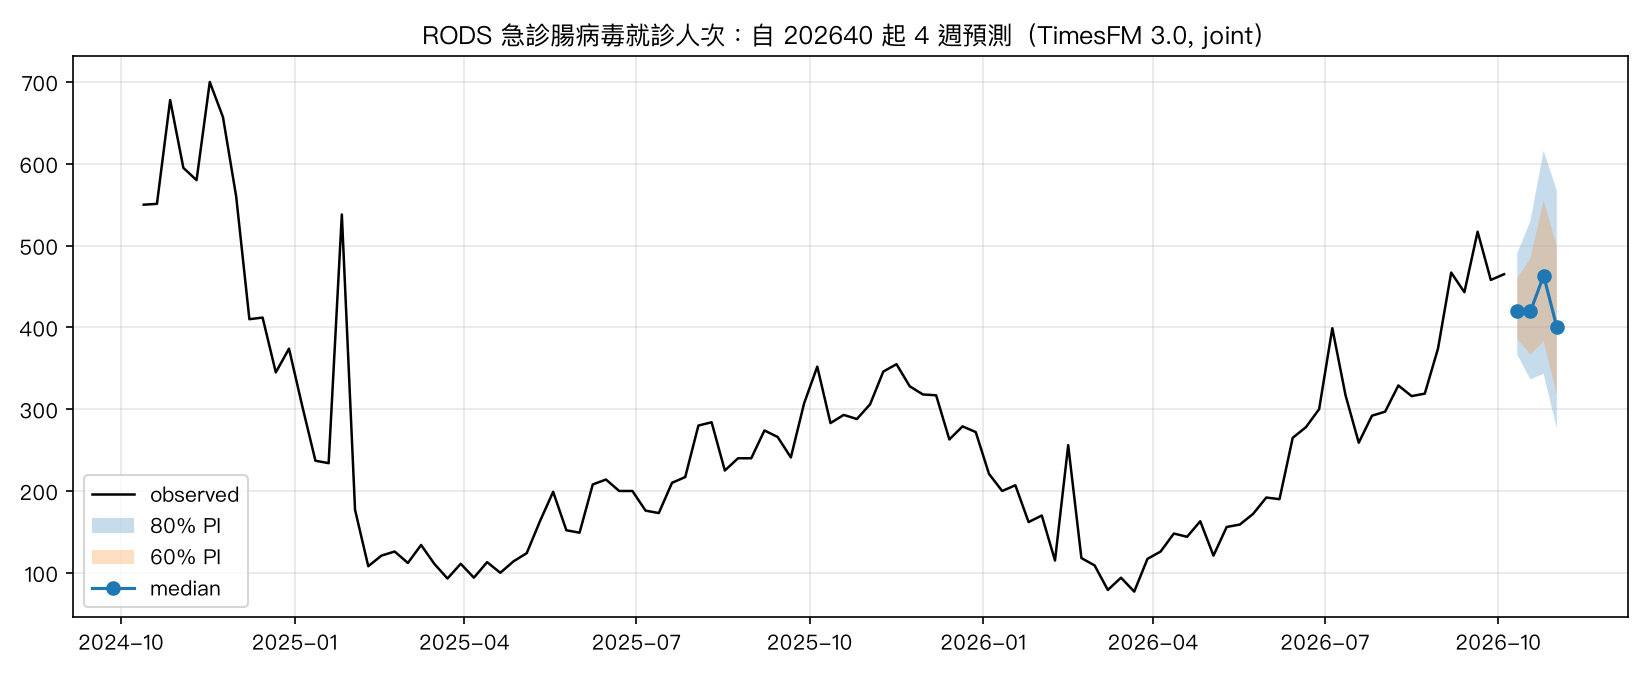
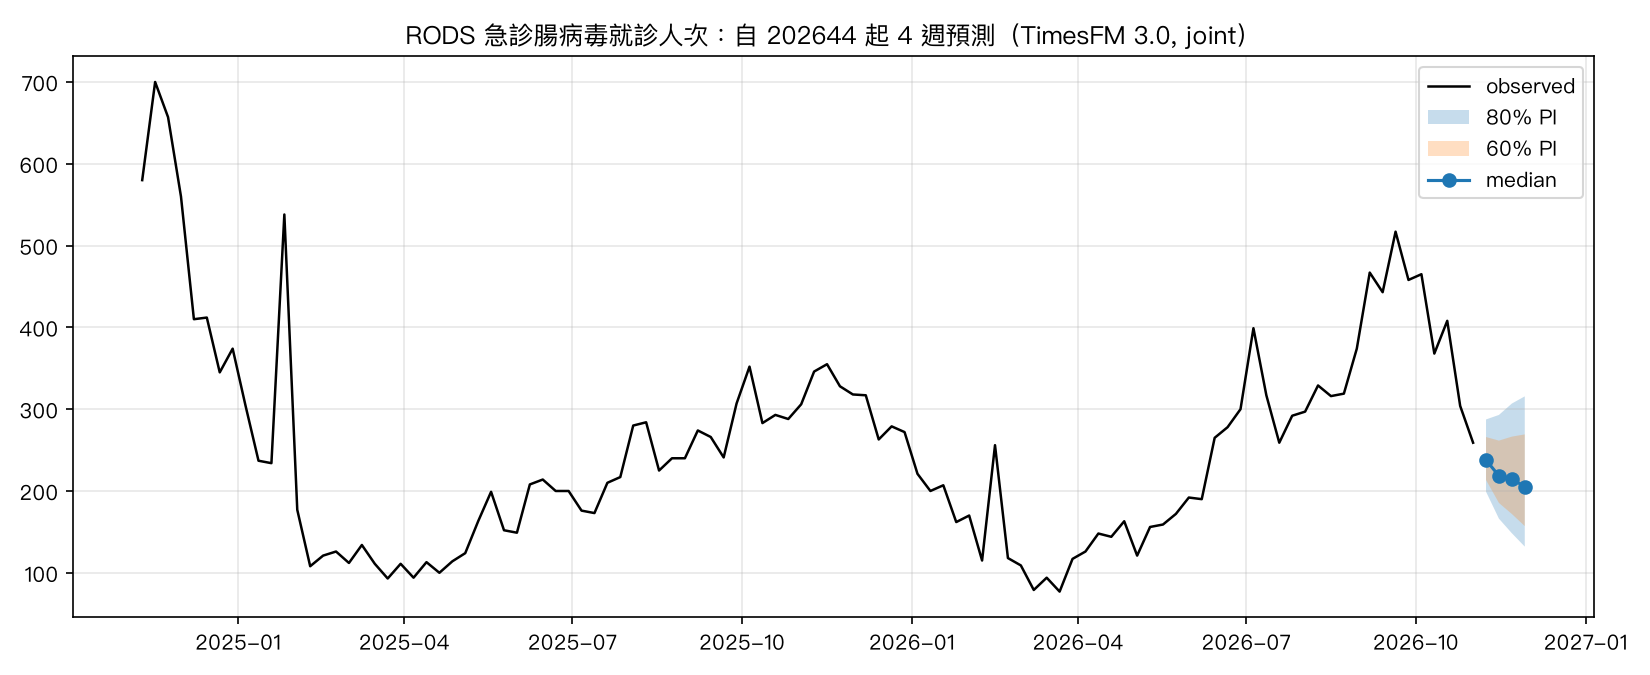
腸病毒每週更新 2026-11-09：資料至 202644、預測起點 202644；門急診合計 6,172 人次（-13%），未達流行閾值

diff --git a/docs/ev/report.html b/docs/ev/report.html
@@ -9,7 +9,7 @@
 <header class="masthead" data-disease="ev" data-page="report"></header>
 <script src="../assets/nav.js?v=nav2"></script>
 <main class="report">
-<div class="hero-kicker">EVALUATION REPORT · 2026-10-19</div>
+<div class="hero-kicker">EVALUATION REPORT · 2026-11-09</div>
 <h1 class="report-title">以 TimesFM 3.0 零樣本預測台灣腸病毒門急診就診：<em>回測解讀與評估</em></h1>
 <p class="lead">資料窗 2016w01–2025w53（522 週），以 2016–2017 為暖機 context，2018w01 起每週一個起點共 415 個，預測未來 1–4 週；主要決策依據為 COVID 後（2023–2025）的加權區間分數（WIS）。目標序列為全國腸病毒門急診就診人次，其中急診部分暫以 RODS 急診腸病毒人次代替。</p>
 
@@ -26,9 +26,9 @@
 
 <section><h2>2. 使用的資料與流行閾值</h2>
 <table class="tbl compact"><thead><tr><th>來源</th><th>內容</th><th>粒度</th><th>完整週範圍</th></tr></thead><tbody>
-<tr><td>健保門診及住院就診人次統計－腸病毒（開放資料）</td><td>腸病毒健保就診人次、健保就診總人次；門診與住院</td><td>週 × 9 年齡層 × 22 縣市</td><td class="num">201601–202640</td></tr>
-<tr><td>急診傳染病監測統計－腸病毒（開放資料，RODS）</td><td>急診腸病毒就診人次（無分母）</td><td>週 × 5 年齡層 × 22 縣市</td><td class="num">200701–202640</td></tr>
-<tr><td>RODS 急診總人次（流感面板 RODS_RS.csv）</td><td>急診就診總人次，用來算腸病毒急診就診百分比</td><td>週 × 醫院</td><td class="num">200901–202640</td></tr>
+<tr><td>健保門診及住院就診人次統計－腸病毒（開放資料）</td><td>腸病毒健保就診人次、健保就診總人次；門診與住院</td><td>週 × 9 年齡層 × 22 縣市</td><td class="num">201601–202644</td></tr>
+<tr><td>急診傳染病監測統計－腸病毒（開放資料，RODS）</td><td>急診腸病毒就診人次（無分母）</td><td>週 × 5 年齡層 × 22 縣市</td><td class="num">200701–202644</td></tr>
+<tr><td>RODS 急診總人次（流感面板 RODS_RS.csv）</td><td>急診就診總人次，用來算腸病毒急診就診百分比</td><td>週 × 醫院</td><td class="num">200901–202643</td></tr>
 <tr><td>行事曆</td><td>學校暑假／寒假／開學週（近似規則）、平日假日天數、春節（tw_holiday.csv）</td><td>週</td><td class="num">2016–2027</td></tr>
 </tbody></table>
 <div class="two-col">
@@ -36,8 +36,8 @@
 <table class="tbl compact"><thead><tr><th>年</th><th class="num">門急診就診人次</th></tr></thead><tbody><tr><td>2016</td><td class='num'>11,000</td></tr><tr><td>2017</td><td class='num'>11,000</td></tr><tr><td>2018</td><td class='num'>11,000</td></tr><tr><td>2019</td><td class='num'>11,000</td></tr><tr><td>2020</td><td class='num'>11,000</td></tr><tr><td>2021</td><td class='num'>11,000</td></tr><tr><td>2022</td><td class='num'>11,000</td></tr><tr><td>2023</td><td class='num'>11,000</td></tr><tr><td>2024</td><td class='num'>11,000</td></tr><tr><td>2025</td><td class='num'>11,000</td></tr><tr><td>2026</td><td class='num'>12,000</td></tr></tbody></table>
 <p class="source">2016、2023、2024、2025、2026 年有新聞稿佐證；其餘年份推定沿用 11,000。流行期規則（暫定）：單週門急診就診人次達流行閾值即進入流行期；連續 2 週低於閾值即脫離（第 2 週起視為非流行期）。閾值由疾管署每年設定，本專案依各年新聞稿記錄於 data/thresholds.csv。</p></div>
 <div class="card"><h3>合成指標（門診 + RODS）與疾管署公布值的比較</h3>
-<table class="tbl compact"><thead><tr><th>週</th><th class="num">公布門急診</th><th class="num">開放資料門診</th><th class="num">RODS</th><th class="num">合成</th><th class="num">差</th></tr></thead><tbody><tr><td>201617</td><td class='num'>11,174</td><td class='num'>10,340</td><td class='num'>603</td><td class='num'>10,943</td><td class='num'>-2.1%</td></tr><tr><td>202317</td><td class='num'>10,230</td><td class='num'>8,936</td><td class='num'>454</td><td class='num'>9,390</td><td class='num'>-8.2%</td></tr><tr><td>202318</td><td class='num'>11,252</td><td class='num'>10,040</td><td class='num'>439</td><td class='num'>10,479</td><td class='num'>-6.9%</td></tr><tr><td>202335</td><td class='num'>12,366</td><td class='num'>10,809</td><td class='num'>504</td><td class='num'>11,313</td><td class='num'>-8.5%</td></tr><tr><td>202336</td><td class='num'>12,163</td><td class='num'>10,986</td><td class='num'>531</td><td class='num'>11,517</td><td class='num'>-5.3%</td></tr><tr><td>202339</td><td class='num'>12,463</td><td class='num'>11,139</td><td class='num'>545</td><td class='num'>11,684</td><td class='num'>-6.3%</td></tr><tr><td>202340</td><td class='num'>12,643</td><td class='num'>11,306</td><td class='num'>580</td><td class='num'>11,886</td><td class='num'>-6.0%</td></tr><tr><td>202418</td><td class='num'>16,564</td><td class='num'>15,788</td><td class='num'>449</td><td class='num'>16,237</td><td class='num'>-2.0%</td></tr><tr><td>202419</td><td class='num'>17,895</td><td class='num'>17,480</td><td class='num'>519</td><td class='num'>17,999</td><td class='num'>+0.6%</td></tr><tr><td>202449</td><td class='num'>22,279</td><td class='num'>22,263</td><td class='num'>560</td><td class='num'>22,823</td><td class='num'>+2.4%</td></tr><tr><td>202450</td><td class='num'>17,508</td><td class='num'>17,808</td><td class='num'>410</td><td class='num'>18,218</td><td class='num'>+4.1%</td></tr><tr><td>202546</td><td class='num'>11,223</td><td class='num'>11,510</td><td class='num'>346</td><td class='num'>11,856</td><td class='num'>+5.6%</td></tr><tr><td>202620</td><td class='num'>5,153</td><td class='num'>5,144</td><td class='num'>159</td><td class='num'>5,303</td><td class='num'>+2.9%</td></tr><tr><td>202621</td><td class='num'>5,573</td><td class='num'>5,660</td><td class='num'>172</td><td class='num'>5,832</td><td class='num'>+4.6%</td></tr><tr><td>202635</td><td class='num'>8,641</td><td class='num'>8,388</td><td class='num'>374</td><td class='num'>8,762</td><td class='num'>+1.4%</td></tr><tr><td>202636</td><td class='num'>10,203</td><td class='num'>10,106</td><td class='num'>467</td><td class='num'>10,573</td><td class='num'>+3.6%</td></tr></tbody></table>
-<p class="source">公布值為新聞稿首報數字，開放資料為回補後數值。合成指標在 2016–2023 年偏低 2–9%（RODS 只涵蓋部分急診），2024 年後在 ±5% 內（平均 -1.3%，範圍 -8.5% 至 +5.6%）。以合成指標套用官方閾值時，早年略偏保守。</p></div>
+<table class="tbl compact"><thead><tr><th>週</th><th class="num">公布門急診</th><th class="num">開放資料門診</th><th class="num">RODS</th><th class="num">合成</th><th class="num">差</th></tr></thead><tbody><tr><td>201617</td><td class='num'>11,174</td><td class='num'>10,340</td><td class='num'>603</td><td class='num'>10,943</td><td class='num'>-2.1%</td></tr><tr><td>202317</td><td class='num'>10,230</td><td class='num'>8,936</td><td class='num'>454</td><td class='num'>9,390</td><td class='num'>-8.2%</td></tr><tr><td>202318</td><td class='num'>11,252</td><td class='num'>10,040</td><td class='num'>439</td><td class='num'>10,479</td><td class='num'>-6.9%</td></tr><tr><td>202335</td><td class='num'>12,366</td><td class='num'>10,809</td><td class='num'>504</td><td class='num'>11,313</td><td class='num'>-8.5%</td></tr><tr><td>202336</td><td class='num'>12,163</td><td class='num'>10,986</td><td class='num'>531</td><td class='num'>11,517</td><td class='num'>-5.3%</td></tr><tr><td>202339</td><td class='num'>12,463</td><td class='num'>11,139</td><td class='num'>545</td><td class='num'>11,684</td><td class='num'>-6.3%</td></tr><tr><td>202340</td><td class='num'>12,643</td><td class='num'>11,306</td><td class='num'>580</td><td class='num'>11,886</td><td class='num'>-6.0%</td></tr><tr><td>202418</td><td class='num'>16,564</td><td class='num'>15,788</td><td class='num'>449</td><td class='num'>16,237</td><td class='num'>-2.0%</td></tr><tr><td>202419</td><td class='num'>17,895</td><td class='num'>17,480</td><td class='num'>519</td><td class='num'>17,999</td><td class='num'>+0.6%</td></tr><tr><td>202449</td><td class='num'>22,279</td><td class='num'>22,263</td><td class='num'>560</td><td class='num'>22,823</td><td class='num'>+2.4%</td></tr><tr><td>202450</td><td class='num'>17,508</td><td class='num'>17,808</td><td class='num'>410</td><td class='num'>18,218</td><td class='num'>+4.1%</td></tr><tr><td>202546</td><td class='num'>11,223</td><td class='num'>11,510</td><td class='num'>346</td><td class='num'>11,856</td><td class='num'>+5.6%</td></tr><tr><td>202620</td><td class='num'>5,153</td><td class='num'>5,144</td><td class='num'>159</td><td class='num'>5,303</td><td class='num'>+2.9%</td></tr><tr><td>202621</td><td class='num'>5,573</td><td class='num'>5,660</td><td class='num'>172</td><td class='num'>5,832</td><td class='num'>+4.6%</td></tr><tr><td>202635</td><td class='num'>8,641</td><td class='num'>8,469</td><td class='num'>374</td><td class='num'>8,843</td><td class='num'>+2.3%</td></tr><tr><td>202636</td><td class='num'>10,203</td><td class='num'>10,225</td><td class='num'>467</td><td class='num'>10,692</td><td class='num'>+4.8%</td></tr></tbody></table>
+<p class="source">公布值為新聞稿首報數字，開放資料為回補後數值。合成指標在 2016–2023 年偏低 2–9%（RODS 只涵蓋部分急診），2024 年後在 ±5% 內（平均 -1.1%，範圍 -8.5% 至 +5.6%）。以合成指標套用官方閾值時，早年略偏保守。</p></div>
 </div></section>
 
 <section><h2>3. 主要結果</h2>
@@ -74,10 +74,10 @@
 <li>TimesFM 3.0 權重為非商業、非生產用途授權。</li>
 </ul></section>
 
-<section><h2>6. 最新預測摘要（起點 202640，2026-10-04 當週）</h2>
-<p>門急診合計未來 4 週中位數：8,930、8,840、8,816、9,129 人次；第 1 週 80% 區間 7,497–10,608。2026 年流行閾值 12,000 人次；目前未進入流行期。完整內容見<a href="index.html">每週預測</a>。</p></section>
+<section><h2>6. 最新預測摘要（起點 202644，2026-11-01 當週）</h2>
+<p>門急診合計未來 4 週中位數：5,787、5,700、5,781、5,715 人次；第 1 週 80% 區間 4,915–6,862。2026 年流行閾值 12,000 人次；目前未進入流行期。完整內容見<a href="index.html">每週預測</a>。</p></section>
 
-<footer class="report-footer">資料：疾病管制署資料開放平台（健保門診腸病毒、RODS 急診腸病毒）、RODS_RS.csv（急診總人次）。模型：google/timesfm-3.0-pytorch（非商業授權）。產生時間 2026-10-19T10:20+08:00。圖表依《疫情資料視覺化指引》v1.1。</footer>
+<footer class="report-footer">資料：疾病管制署資料開放平台（健保門診腸病毒、RODS 急診腸病毒）、RODS_RS.csv（急診總人次）。模型：google/timesfm-3.0-pytorch（非商業授權）。產生時間 2026-11-09T17:16+08:00。圖表依《疫情資料視覺化指引》v1.1。</footer>
 </main>
 <script>
 document.addEventListener('DOMContentLoaded', async () => {

diff --git a/docs/ev/method.html b/docs/ev/method.html
@@ -13,11 +13,11 @@
   <p class="lead">說明每週腸病毒預測用了哪些資料、模型怎麼設定、流行閾值與流行期規則，以及預測輸出該怎麼讀。回測成績見<a href="backtest.html">回測</a>，完整解讀見<a href="report.html">報告</a>。</p>
   <section>
     <div class="section-head"><span class="section-num">01</span><h2>預測目標與指標</h2><span class="en">Targets</span></div>
-    <div class="tbl-wrap"><table class="tbl compact"><thead><tr><th>指標</th><th>定義與來源</th><th>預測設定</th><th>最新起點</th></tr></thead><tbody><tr><td>全國腸病毒門急診就診人次（健保門診 + RODS 急診）（主指標）</td><td>健保申報門診腸病毒就診人次（疾管署資料開放平台）+ RODS 急診腸病毒就診人次（急診部分暫以 RODS 代替）</td><td>聯合三變量（門急診合計 + 門診 + RODS）+ 學校行事曆 + 假日天數</td><td>202640</td></tr><tr><td>全國腸病毒健保門診就診人次</td><td>健保申報（疾管署資料開放平台）</td><td>聯合三變量（門急診合計 + 門診 + RODS）+ 學校行事曆 + 假日天數</td><td>202640</td></tr><tr><td>RODS 急診腸病毒就診人次</td><td>即時疫情監視及預警系統 RODS（資料開放平台）</td><td>聯合三變量（門急診合計 + 門診 + RODS）+ 學校行事曆 + 假日天數</td><td>202640</td></tr><tr><td>RODS 急診腸病毒就診百分比</td><td>RODS 腸病毒人次 ÷ RODS 急診總人次（分母來自流感面板的 RODS_RS.csv）</td><td>單變量 + 學校行事曆 + 假日天數</td><td>202640</td></tr></tbody></table></div><p class="source">門急診合計是疾管署判定腸病毒流行期的指標。開放資料的健保檔只有門診與住院，急診部分暫以 RODS 急診腸病毒人次代替（2026-09-19 決定），取得健保急診檔後替換。</p>
+    <div class="tbl-wrap"><table class="tbl compact"><thead><tr><th>指標</th><th>定義與來源</th><th>預測設定</th><th>最新起點</th></tr></thead><tbody><tr><td>全國腸病毒門急診就診人次（健保門診 + RODS 急診）（主指標）</td><td>健保申報門診腸病毒就診人次（疾管署資料開放平台）+ RODS 急診腸病毒就診人次（急診部分暫以 RODS 代替）</td><td>聯合三變量（門急診合計 + 門診 + RODS）+ 學校行事曆 + 假日天數</td><td>202644</td></tr><tr><td>全國腸病毒健保門診就診人次</td><td>健保申報（疾管署資料開放平台）</td><td>聯合三變量（門急診合計 + 門診 + RODS）+ 學校行事曆 + 假日天數</td><td>202644</td></tr><tr><td>RODS 急診腸病毒就診人次</td><td>即時疫情監視及預警系統 RODS（資料開放平台）</td><td>聯合三變量（門急診合計 + 門診 + RODS）+ 學校行事曆 + 假日天數</td><td>202644</td></tr><tr><td>RODS 急診腸病毒就診百分比</td><td>RODS 腸病毒人次 ÷ RODS 急診總人次（分母來自流感面板的 RODS_RS.csv）</td><td>單變量 + 學校行事曆 + 假日天數</td><td>202643</td></tr></tbody></table></div><p class="source">門急診合計是疾管署判定腸病毒流行期的指標。開放資料的健保檔只有門診與住院，急診部分暫以 RODS 急診腸病毒人次代替（2026-09-19 決定），取得健保急診檔後替換。</p>
   </section>
   <section>
     <div class="section-head"><span class="section-num">02</span><h2>資料來源與完整週</h2><span class="en">Data</span></div>
-    <div class="tbl-wrap"><table class="tbl compact"><thead><tr><th>來源</th><th>內容</th><th>粒度</th><th>完整週範圍</th></tr></thead><tbody><tr><td>健保門診及住院就診人次統計－腸病毒（開放資料）</td><td>腸病毒健保就診人次、健保就診總人次；門診與住院</td><td>週 × 9 年齡層 × 22 縣市</td><td>201601–202640</td></tr><tr><td>急診傳染病監測統計－腸病毒（開放資料，RODS）</td><td>急診腸病毒就診人次（無分母）</td><td>週 × 5 年齡層 × 22 縣市</td><td>200701–202640</td></tr><tr><td>RODS 急診總人次（類流感面板 RODS_RS.csv）</td><td>急診就診總人次，急診腸病毒% 的分母</td><td>週 × 醫院</td><td>200901–202640</td></tr><tr><td>行事曆</td><td>學校暑假／寒假／開學前兩週（近似規則）、平日假日天數、春節</td><td>週</td><td>2016–2027</td></tr></tbody></table></div><ul class="findings"><li>開放資料每週自疾管署資料開放平台下載（需 TWCA 中繼憑證）；不完整週以「低於前 8 週中位數的 60%」與日曆截斷自動排除。</li><li>合成指標與疾管署新聞稿公布的門急診人次比較：2024 年後差 -8.5% 至 +5.6%（平均 -1.3%），2016–2023 年偏低 2–9%；校驗表見<a href="report.html">報告</a>第 2 節。</li></ul>
+    <div class="tbl-wrap"><table class="tbl compact"><thead><tr><th>來源</th><th>內容</th><th>粒度</th><th>完整週範圍</th></tr></thead><tbody><tr><td>健保門診及住院就診人次統計－腸病毒（開放資料）</td><td>腸病毒健保就診人次、健保就診總人次；門診與住院</td><td>週 × 9 年齡層 × 22 縣市</td><td>201601–202644</td></tr><tr><td>急診傳染病監測統計－腸病毒（開放資料，RODS）</td><td>急診腸病毒就診人次（無分母）</td><td>週 × 5 年齡層 × 22 縣市</td><td>200701–202644</td></tr><tr><td>RODS 急診總人次（類流感面板 RODS_RS.csv）</td><td>急診就診總人次，急診腸病毒% 的分母</td><td>週 × 醫院</td><td>200901–202643</td></tr><tr><td>行事曆</td><td>學校暑假／寒假／開學前兩週（近似規則）、平日假日天數、春節</td><td>週</td><td>2016–2027</td></tr></tbody></table></div><ul class="findings"><li>開放資料每週自疾管署資料開放平台下載（需 TWCA 中繼憑證）；不完整週以「低於前 8 週中位數的 60%」與日曆截斷自動排除。</li><li>合成指標與疾管署新聞稿公布的門急診人次比較：2024 年後差 -8.5% 至 +5.6%（平均 -1.1%），2016–2023 年偏低 2–9%；校驗表見<a href="report.html">報告</a>第 2 節。</li></ul>
   </section>
   <section>
     <div class="section-head"><span class="section-num">03</span><h2>模型與設定</h2><span class="en">Model</span></div>
@@ -36,5 +36,5 @@
     <ul class="findings"><li>急診以 RODS 代替：RODS 只涵蓋部分急診，合成指標早年偏低 2–9%。</li><li>開放資料有回補：新聞稿首報值與日後開放資料相差可達 3–5%。</li><li>流行規模與重症由病毒型別（EV-A71、CVA6、CVA16、E11、EV-D68 等）決定，零樣本模型看不到型別轉換，異常季節會慢半拍。</li><li>學校行事曆為近似規則，非各學年實際日期。</li><li>TimesFM 3.0 權重為非商業、非生產用途授權。</li></ul>
   </section>
 </main>
-<footer class="site-footer">資料：疾病管制署資料開放平台（健保門診腸病毒、RODS 急診腸病毒）、RODS_RS.csv（急診總人次）。模型：google/timesfm-3.0-pytorch（timesfm-non-commercial-license-v1.0（非商業、非生產用途））。產生時間 2026-10-19T10:20+08:00。</footer>
+<footer class="site-footer">資料：疾病管制署資料開放平台（健保門診腸病毒、RODS 急診腸病毒）、RODS_RS.csv（急診總人次）。模型：google/timesfm-3.0-pytorch（timesfm-non-commercial-license-v1.0（非商業、非生產用途））。產生時間 2026-11-09T17:16+08:00。</footer>
 </body></html>
